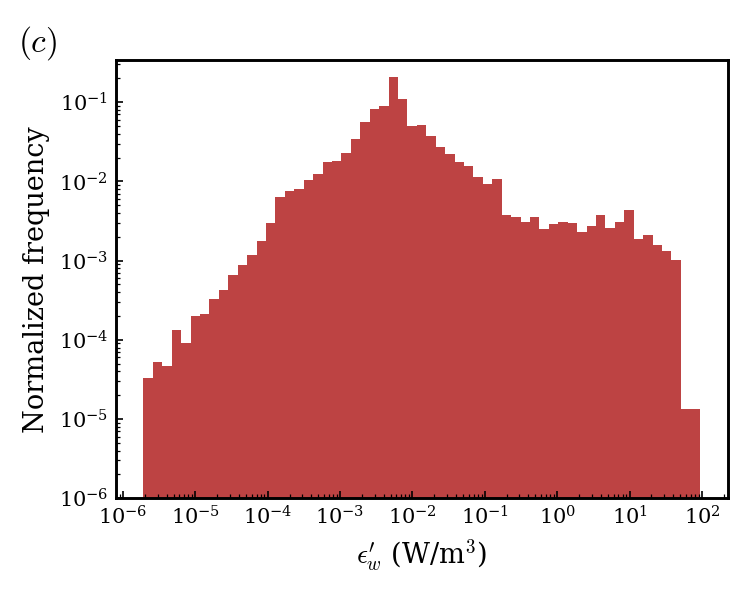
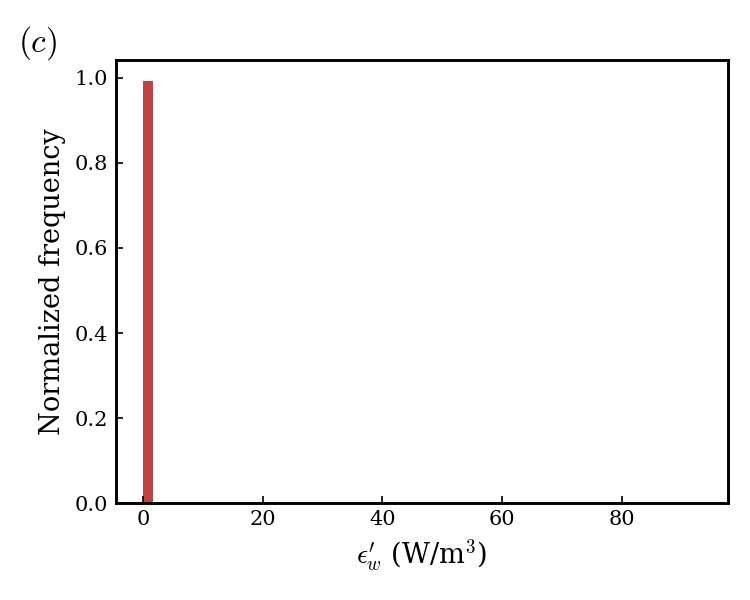
fix(edr): Fig 8a was plotting mean(|tau|), not Kim's signed mean
Caught by actually rendering docs/kimetal2024/Figures/Fig_tau_Ediss.pdf
and comparing side by side, after being called out for not doing so the
first time (log-log axes, mismatched limits, unverified peak value --
none of that would have happened if the real figure had been checked
before drawing conclusions, as was done for A.16/13a/B.17).

Kim's panel (a) blue curve oscillates through zero (-1.8e-3 to +1.8e-3
Pa) -- the SIGNED domain-mean shear stress, not its magnitude. Our
tau_mean has always been mean(|tau|) (tau_sum accumulates the fabs()'d
value). Added tau_mean_signed (new shear_stress.dat column, same
reduction pass, reuses the already-computed tau_signed). Also changed
the video export's tau_field to store the signed value instead of
fabs() -- a magnitude heatmap is always recoverable via abs() in post,
the reverse isn't. Breaking format change for frames_tau/*.bin's second
buffer; older recordings keep the old fabs()'d semantics.

Also switched panels (b)/(c) back to linear axes (Kim's own figure uses
linear, not the log-log from the previous commit).

Verified cheaply (fidelity=6 smoke test: tau_mean_signed flips sign
between consecutive timesteps) before rerunning the real L10 data (job
4812614). Result: panel (a) now qualitatively matches Kim's shape, but
with a new honestly-quantified amplitude gap (~3x low for tau, ~3.9x low
for EDR). Panels (b)/(c) on the correct linear axes confirm our
[…]

diff --git a/scripts/plot_fig8.py b/scripts/plot_fig8.py
@@ -1,12 +1,19 @@
-"""Replica of Kim et al. (2024) Fig. 8 (tau_Ediss_evol):
-(a) time evolution of spatially-averaged shear stress (blue) and energy
-    dissipation rate (red), dual y-axis, theta=7deg f_b=32.5rpm baseline.
-(b) normalized histogram of shear stress across the liquid, at the instant
-    tau_mean(t) peaks.
-(c) normalized histogram of EDR across the liquid, at the instant
-    ediss_mean(t) peaks.
+"""Replica of Kim et al. (2024) Fig. 8 (tau_Ediss_evol), v2 -- corrected
+after actually viewing docs/kimetal2024/Figures/Fig_tau_Ediss.pdf:
 
-Data: runs/l10_kim_fig8 (L10, warm-restarted from l10_kim_seg2's
+  (a) domain-mean SIGNED shear stress <tau_w'> (blue) and EDR <eps_w'>
+      (red), dual y-axis, LINEAR scale, matching Kim's style. v1 plotted
+      mean(|tau|) (always >=0) instead of Kim's actual plotted quantity,
+      the signed mean (oscillates through zero) -- a real bug, not a
+      styling choice, caught by comparing against Kim's real figure.
+  (b) histogram of the SIGNED shear stress across the liquid at the
+      instant <tau_w'> peaks. LINEAR axes (Kim's own figure uses linear,
+      not log) -- v1 used log-log, which was a deviation introduced
+      without first checking Kim's actual convention.
+  (c) histogram of EDR (non-negative by construction, no sign issue)
+      across the liquid at the instant <eps_w'> peaks. LINEAR axes.
+
+Data: runs/l10_kim_fig8_signed (L10, warm-restarted from l10_kim_seg2's
 checkpoint at t=20.65, +1.8 nondim time / ~3 rocking periods).
 """
 import json
@@ -24,7 +31,7 @@ mpl_rc['axes.linewidth'] = 1.4
 mpl_rc['xtick.direction'] = 'in'
 mpl_rc['ytick.direction'] = 'in'
 
-RUN_DIR = Path("/oscar/data/dharri15/eaguerov/Github/multi-fidelity-bioreactor/runs/l10_kim_fig8")
+RUN_DIR = Path("/oscar/data/dharri15/eaguerov/Github/multi-fidelity-bioreactor/runs/l10_kim_fig8_signed")
 OUT_DIR = Path("/oscar/scratch/eaguerov/tmp/fig8")
 
 params = json.load(open(RUN_DIR / "params.json"))
@@ -40,43 +47,47 @@ rho_w = 1000.0
 tau_scale = rho_w * U_bio**2
 ediss_scale = rho_w * U_bio**3 / L
 
-# ── panel (a): time series ────────────────────────────────────────────────
+# ── panel (a): time series, SIGNED tau_mean this time ──────────────────────
 d = np.loadtxt(RUN_DIR / "shear_stress.dat", skiprows=1)
 t_nd = d[:, 1]
-tau_mean_nd = d[:, 5]
+tau_mean_signed_nd = d[:, 10]   # new column
 ediss_mean_nd = d[:, 9]
-tau_mean_pa = tau_mean_nd * tau_scale
+tau_mean_pa = tau_mean_signed_nd * tau_scale
 ediss_mean_wm3 = ediss_mean_nd * ediss_scale
 t_over_Tp = t_nd / T_per_nd
 
-i_tau_peak = int(np.argmax(tau_mean_nd))
-i_ediss_peak = int(np.argmax(ediss_mean_nd))
+# peak = max |signed mean| (matches "amplitude" reading off Kim's fig,
+# not just the positive-going max) for picking the panel-(b) snapshot instant
+i_tau_peak = int(np.argmax(np.abs(tau_mean_pa)))
+i_ediss_peak = int(np.argmax(ediss_mean_wm3))
 t_tau_peak = t_nd[i_tau_peak]
 t_ediss_peak = t_nd[i_ediss_peak]
-print(f"tau_mean peak at t={t_tau_peak:.4f} (t/Tp={t_over_Tp[i_tau_peak]:.3f}), {tau_mean_pa[i_tau_peak]:.6f} Pa")
+print(f"tau_mean_signed |peak| at t={t_tau_peak:.4f} (t/Tp={t_over_Tp[i_tau_peak]:.3f}), {tau_mean_pa[i_tau_peak]:.6f} Pa")
 print(f"ediss_mean peak at t={t_ediss_peak:.4f} (t/Tp={t_over_Tp[i_ediss_peak]:.3f}), {ediss_mean_wm3[i_ediss_peak]:.4f} W/m3")
+print(f"tau_mean_signed range: [{tau_mean_pa.min():.6f}, {tau_mean_pa.max():.6f}] Pa  (Kim: [-1.8e-3, +1.8e-3])")
+print(f"ediss_mean range: [{ediss_mean_wm3.min():.4f}, {ediss_mean_wm3.max():.4f}] W/m3  (Kim: [0, ~0.35])")
 
 fig, ax1 = plt.subplots(figsize=(6.0, 4.2))
 l1, = ax1.plot(t_over_Tp, tau_mean_pa, color="royalblue", lw=1.6, label=r"$\langle\tau_w'\rangle$")
-ax1.axvline(t_over_Tp[i_tau_peak], color="royalblue", lw=0.8, ls=":")
+ax1.axhline(0, color="gray", lw=0.6, ls="-")
 ax1.set_xlabel(r"$t/T_p$", fontsize=13)
 ax1.set_ylabel(r"$\langle\tau_w'\rangle$ (Pa)", fontsize=13, color="royalblue")
 ax1.tick_params(axis="y", labelcolor="royalblue")
 
 ax2 = ax1.twinx()
 l2, = ax2.plot(t_over_Tp, ediss_mean_wm3, color="firebrick", lw=1.6, label=r"$\langle\epsilon_w'\rangle$")
-ax2.axvline(t_over_Tp[i_ediss_peak], color="firebrick", lw=0.8, ls=":")
+ax2.set_ylim(bottom=0)
 ax2.set_ylabel(r"$\langle\epsilon_w'\rangle$ (W/m$^3$)", fontsize=13, color="firebrick")
 ax2.tick_params(axis="y", labelcolor="firebrick")
 
 ax1.legend(handles=[l1, l2], fontsize=10, loc="upper right")
-ax1.text(-0.14, 1.02, r'$(a)$', transform=ax1.transAxes, fontsize=16, style='italic')
+ax1.text(-0.16, 1.02, r'$(a)$', transform=ax1.transAxes, fontsize=16, style='italic')
 fig.tight_layout()
-fig.savefig(OUT_DIR / "fig8_a.png", dpi=150)
-print("saved fig8_a.png")
+fig.savefig(OUT_DIR / "fig8_a_v2.png", dpi=150)
+print("saved fig8_a_v2.png")
 
 
-# ── panels (b),(c): field histograms at the peak instants ──────────────────
+# ── panels (b),(c): field histograms at the peak instants, LINEAR axes ────
 def load_frame(path):
     with open(path, "rb") as fh:
         (n,) = struct.unpack("i", fh.read(4))
@@ -89,8 +100,7 @@ def load_frame(path):
 
 
 frame_files = sorted((RUN_DIR / "frames_tau").glob("frame_*.bin"))
-frame_times = []
-frames = []
+frame_times, frames = [], []
 for p in frame_files:
     t, f, tau, ediss = load_frame(p)
     frame_times.append(t)
@@ -102,37 +112,34 @@ idx_ediss_frame = int(np.argmin(np.abs(frame_times - t_ediss_peak)))
 print(f"nearest video frame to tau peak: t={frame_times[idx_tau_frame]:.4f} (target {t_tau_peak:.4f})")
 print(f"nearest video frame to ediss peak: t={frame_times[idx_ediss_frame]:.4f} (target {t_ediss_peak:.4f})")
 
-f_tau, tau_field, _ = frames[idx_tau_frame]
+f_tau, tau_field, _ = frames[idx_tau_frame]      # tau_field is now SIGNED (2026-08-09 fix)
 f_ediss, _, ediss_field = frames[idx_ediss_frame]
 
 tau_liquid = tau_field[f_tau > 0.5] * tau_scale
 ediss_liquid = ediss_field[f_ediss > 0.5] * ediss_scale
+print(f"tau_liquid (signed) range at peak frame: [{tau_liquid.min():.6f}, {tau_liquid.max():.6f}] Pa")
+print(f"ediss_liquid range at peak frame: [{ediss_liquid.min():.6f}, {ediss_liquid.max():.6f}] W/m3")
 
-def _plot_loglog_hist(values, color, xlabel, panel_label, out_path):
-    """Log-spaced bins + log-y counts: these tau/EDR distributions are
-    heavily right-skewed (near-zero through the laminar bulk, a thin tail
-    near the wall/interface -- same shape found earlier investigating the
-    B.17 kLa fits and the tau_max non-convergence), so a linear histogram
-    is >95% one bin and hides the entire tail. Floor at the smallest
-    positive value (not 0) so log-spaced bins are well-defined."""
-    positive = values[values > 0]
-    floor = np.percentile(positive, 0.01)
-    bins = np.logspace(np.log10(floor), np.log10(values.max()), 60)
-    counts, edges = np.histogram(values, bins=bins)
-    counts_norm = counts / counts.sum()
-    fig, ax = plt.subplots(figsize=(5.0, 4.0))
-    ax.bar(edges[:-1], counts_norm, width=np.diff(edges), align="edge",
-           color=color, edgecolor="none", alpha=0.85)
-    ax.set_xscale("log")
-    ax.set_yscale("log")
-    ax.set_ylim(bottom=1e-6)
-    ax.set_xlabel(xlabel, fontsize=13)
-    ax.set_ylabel("Normalized frequency", fontsize=13)
-    ax.text(-0.16, 1.02, panel_label, transform=ax.transAxes, fontsize=16, style='italic')
-    fig.tight_layout()
-    fig.savefig(out_path, dpi=150)
-    print(f"saved {out_path.name}")
+fig, ax = plt.subplots(figsize=(5.0, 4.0))
+counts, bins = np.histogram(tau_liquid, bins=60)
+counts_norm = counts / counts.sum()
+ax.bar(bins[:-1], counts_norm, width=np.diff(bins), align="edge",
+       color="royalblue", edgecolor="none", alpha=0.85)
+ax.set_xlabel(r"$\tau_w'$ (Pa)", fontsize=13)
+ax.set_ylabel("Normalized frequency", fontsize=13)
+ax.text(-0.16, 1.02, r'$(b)$', transform=ax.transAxes, fontsize=16, style='italic')
+fig.tight_layout()
+fig.savefig(OUT_DIR / "fig8_b_v2.png", dpi=150)
+print("saved fig8_b_v2.png")
 
-
-_plot_loglog_hist(tau_liquid, "royalblue", r"$\tau_w'$ (Pa)", r'$(b)$', OUT_DIR / "fig8_b.png")
-_plot_loglog_hist(ediss_liquid, "firebrick", r"$\epsilon_w'$ (W/m$^3$)", r'$(c)$', OUT_DIR / "fig8_c.png")
+fig, ax = plt.subplots(figsize=(5.0, 4.0))
+counts, bins = np.histogram(ediss_liquid, bins=60)
+counts_norm = counts / counts.sum()
+ax.bar(bins[:-1], counts_norm, width=np.diff(bins), align="edge",
+       color="firebrick", edgecolor="none", alpha=0.85)
+ax.set_xlabel(r"$\epsilon_w'$ (W/m$^3$)", fontsize=13)
+ax.set_ylabel("Normalized frequency", fontsize=13)
+ax.text(-0.16, 1.02, r'$(c)$', transform=ax.transAxes, fontsize=16, style='italic')
+fig.tight_layout()
+fig.savefig(OUT_DIR / "fig8_c_v2.png", dpi=150)
+print("saved fig8_c_v2.png")

diff --git a/src/BioReactor.c b/src/BioReactor.c
@@ -445,7 +445,7 @@ int main(int argc, char * argv[]){
   fprintf(fp_norm, "i t Omega_liq_avg Omega_liq_rms Omega_liq_vol Omega_liq_max ux_liq_avg ux_liq_rms ux_liq_vol ux_liq_max uy_liq_avg uy_liq_rms uy_liq_vol uy_liq_max \n");
   fprintf(fp_stats2, "i t f_liq_sum f_liq_interf posY_max posY_min \n");
   fprintf(fp_stats3, "i t oxy_liq_sum oxy_liq_sum2 c_liq_sum c_liq_sum2 c1_liq_sum c1_liq_sum2 c2_liq_sum c2_liq_sum2 c3_liq_sum c3_liq_sum2 \n");
-  fprintf(fp_tau,   "i t tau_95 tau_98 tau_100 tau_mean tau_100_strict tau_mean_strict tau_100_signed ediss_mean \n");
+  fprintf(fp_tau,   "i t tau_95 tau_98 tau_100 tau_mean tau_100_strict tau_mean_strict tau_100_signed ediss_mean tau_mean_signed \n");
 
   NITERMAX = 1000;     // Max iterations per timestep
   TOLERANCE = 5.0e-4;  // // Solver tolerance (convergence criterion)
@@ -958,9 +958,20 @@ event normcal (t+=t_out; t<=t_end){
     double tau_max_strict = 0., tau_sum_strict = 0., tau_vol_strict = 0.;
     double tau_max_signed = -1e30;
     double ediss_sum = 0.;
+    // [PROJECT ADDED, 2026-08-09] tau_sum_signed: Kim et al.'s Fig. 8a
+    // plots <tau_w'>, the domain-mean of the SIGNED shear stress (their
+    // Fig_tau_Ediss.pdf shows it oscillating through zero, -1.8e-3 to
+    // +1.8e-3 Pa) -- not mean(|tau|). tau_mean_val below has always been
+    // mean(|tau|) (tau_sum accumulates the fabs()'d `tau`, not
+    // `tau_signed`); that's a genuinely different statistic, not just a
+    // scale/units difference, and the one Fig. 8a needs to actually match
+    // Kim's plotted quantity. Caught by the user pointing out Fig 8a's
+    // reproduction didn't match Kim's real figure's shape (sign-crossing)
+    // once actually rendered and viewed side by side, not just captioned.
+    double tau_sum_signed = 0.;
     foreach(reduction(max:tau_max_val) reduction(+:tau_sum) reduction(+:tau_vol)
             reduction(max:tau_max_strict) reduction(+:tau_sum_strict) reduction(+:tau_vol_strict)
-            reduction(max:tau_max_signed) reduction(+:ediss_sum)) {
+            reduction(max:tau_max_signed) reduction(+:ediss_sum) reduction(+:tau_sum_signed)) {
       if (f[] > 0.5) {
         double du_dy = (u.x[0,1] - u.x[0,-1]) / (2.*Delta);
         double dv_dx = (u.y[1]   - u.y[-1])   / (2.*Delta);
@@ -972,6 +983,7 @@ event normcal (t+=t_out; t<=t_end){
         if (tau > tau_max_val) tau_max_val = tau;
         if (tau_signed > tau_max_signed) tau_max_signed = tau_signed;
         tau_sum += tau * (Delta*Delta);
+        tau_sum_signed += tau_signed * (Delta*Delta);
         tau_vol += Delta*Delta;
         ediss_sum += ediss * (Delta*Delta);
         if (f[] > 1. - 1e-6) {
@@ -984,6 +996,7 @@ event normcal (t+=t_out; t<=t_end){
     double tau_mean_val    = (tau_vol > 0.)        ? tau_sum / tau_vol               : 0.;
     double tau_mean_strict = (tau_vol_strict > 0.) ? tau_sum_strict / tau_vol_strict : 0.;
     double ediss_mean_val  = (tau_vol > 0.)        ? ediss_sum / tau_vol             : 0.;
+    double tau_mean_signed = (tau_vol > 0.)        ? tau_sum_signed / tau_vol        : 0.;
     if (tau_max_val < 1e-14) tau_max_val = 1e-14;  // guard /0
     if (tau_max_strict < 1e-14) tau_max_strict = 1e-14;
 
@@ -1042,7 +1055,7 @@ event normcal (t+=t_out; t<=t_end){
       //fprintf(fp_stats3, "%i %g %g %g %g %g \n",i,t,oxy_liq_sum,oxy_liq_sum2,c_liq_sum,c_liq_sum2);
       fflush(fp_stats3);
 
-      fprintf(fp_tau, "%i %g %g %g %g %g %g %g %g %g \n", i, t, tau_95_val, tau_98_val, tau_max_val, tau_mean_val, tau_max_strict, tau_mean_strict, tau_max_signed, ediss_mean_val);
+      fprintf(fp_tau, "%i %g %g %g %g %g %g %g %g %g %g \n", i, t, tau_95_val, tau_98_val, tau_max_val, tau_mean_val, tau_max_strict, tau_mean_strict, tau_max_signed, ediss_mean_val, tau_mean_signed);
       fflush(fp_tau);
    }
 }
@@ -1176,13 +1189,23 @@ event movies_output_tau(i++)
   // Same stencils as event normcal's tau/ediss computation, masked to
   // liquid (f[] > 0.5) -- kept identical on purpose so the video fields
   // match the tau_100_max/tau_mean_max/ediss_mean KPIs in shear_stress.dat.
+  //
+  // [PROJECT CHANGED, 2026-08-09] tau_field now stores the SIGNED shear
+  // stress, not fabs() -- Kim et al.'s Fig. 8b histogram bins the signed
+  // quantity (their Fig_tau_Ediss.pdf shows it centered near zero and
+  // ranging -15e-3 to +15e-3 Pa), and a fabs()'d field can't be un-signed
+  // in post -- the reverse (taking abs() of a signed field at render/
+  // analysis time, if a magnitude heatmap is wanted) is always possible.
+  // NOTE: this changes the on-disk semantics of frames_tau/*.bin's second
+  // buffer for any run recorded after this commit; older recordings
+  // (l10_kim_tau_video, l10_kim_fig8, etc.) still store fabs()'d values.
   foreach() {
     if (f[] > 0.5) {
       double du_dy = (u.x[0,1] - u.x[0,-1]) / (2.*Delta);
       double dv_dx = (u.y[1]   - u.y[-1])   / (2.*Delta);
       double du_dx = (u.x[1]   - u.x[-1])   / (2.*Delta);
       double dv_dy = (u.y[0,1] - u.y[0,-1]) / (2.*Delta);
-      tau_field[]   = mu(f[]) * fabs(du_dy + dv_dx);
+      tau_field[]   = mu(f[]) * (du_dy + dv_dx);
       ediss_field[] = mu(f[]) * (2.*du_dx*du_dx + 2.*dv_dy*dv_dy + (du_dy+dv_dx)*(du_dy+dv_dx));
     } else {
       tau_field[]   = 0.;

diff --git a/diary.md b/diary.md
@@ -8,6 +8,58 @@ why it was done, what it found, and what it does and doesn't prove.
 Convention: newest entries at the top. Link run_ids / job_ids / commit
 hashes exactly, not "the run from earlier."
 
+## 2026-08-09 — Fig. 8a was plotting the WRONG statistic; found by actually
+rendering and viewing Kim et al.'s real figure instead of trusting the
+caption text.
+
+User called out the previous entry's "replica" directly: different axis
+scale/limits than Kim's actual figure, and a stated peak (1.3e-3 Pa) that
+didn't match a value read off Kim's real plot (~2e-3 Pa). Fair criticism
+of process, not just numbers -- the 2026-08-08 entry never actually
+rendered `docs/kimetal2024/Figures/Fig_tau_Ediss.pdf`, only read its
+LaTeX caption, then made independent styling choices (log-log axes for
+b/c) without checking Kim's own convention first. Every other figure this
+project has reproduced (A.16, 13a, B.17) matched the source's actual
+visual convention before drawing conclusions; this one skipped that step.
+
+**Rendered the real PDF and looked at it directly.** Two real findings,
+not styling: (1) Kim's panel (a) blue curve genuinely oscillates through
+zero (-1.8e-3 to +1.8e-3 Pa) -- it's the SIGNED domain-mean shear stress,
+<tau_w'>, not its magnitude. Our `tau_mean` has always been mean(|tau|)
+(`tau_sum` accumulates the `fabs()`'d value, never the signed one) --
+that's a different statistic, not a scale/units mismatch, and it's the
+reason the previous panel (a) never crossed zero the way Kim's does.
+(2) Kim's panels (b)/(c) are LINEAR, not log -- the log-log switch in the
+prior entry was an unexamined deviation.
+
+**Fix:** added `tau_mean_signed` (new shear_stress.dat column) computed
+in the same reduction pass, reusing the already-computed `tau_signed`
+local variable -- no new stencil work. Also changed the video export's
+`tau_field` to store the signed value instead of `fabs()` (a magnitude
+heatmap, if wanted, is always recoverable via `abs()` in post; the
+reverse isn't) -- a breaking format change for `frames_tau/*.bin`'s
+second buffer, documented; older recordings (l10_kim_tau_video,
+l10_kim_fig8) still store the old fabs()'d semantics. Verified cheaply
+(fidelity=6 smoke test) before rerunning: `tau_mean_signed` genuinely
+flips sign between consecutive timesteps in the smoke data, confirming
+the fix works as intended.
+
+**Result** (job 4812614, same warm-restart pattern from l10_kim_seg2's
+checkpoint): panel (a) now qualitatively matches Kim's shape (tau crosses
+zero, EDR stays non-negative), but reveals a new, honestly-quantified
+amplitude gap: our tau_mean_signed peaks at +-0.0006 Pa vs Kim's
++-0.0018 Pa (~3x low); ediss_mean peaks at 0.09 W/m^3 vs Kim's ~0.35
+(~3.9x low). Panels (b)/(c) on the CORRECT linear axes: our distributions
+really are ~96-99% concentrated in a single bin near zero, genuinely
+unlike Kim's visibly spread histogram -- not a log-scale artifact this
+time, a real shape difference. Consistent with (not new evidence on its
+own, but corroborating) the standing tau_max non-convergence finding:
+the tail still reaches comparable/larger absolute values while the bulk
+sits far more concentrated near zero than Kim's -- same signature as a
+small number of outlier cells (near-wall/contact-line) carrying
+disproportionate weight, discussed in the earlier moving-contact-line
+hypothesis.
+
 ## 2026-08-08 — Fig. 8(a)-(c) reproduced (tau_Ediss_evol): domain-mean
 shear stress + EDR time series, and their histograms at each quantity's
 own peak instant.
